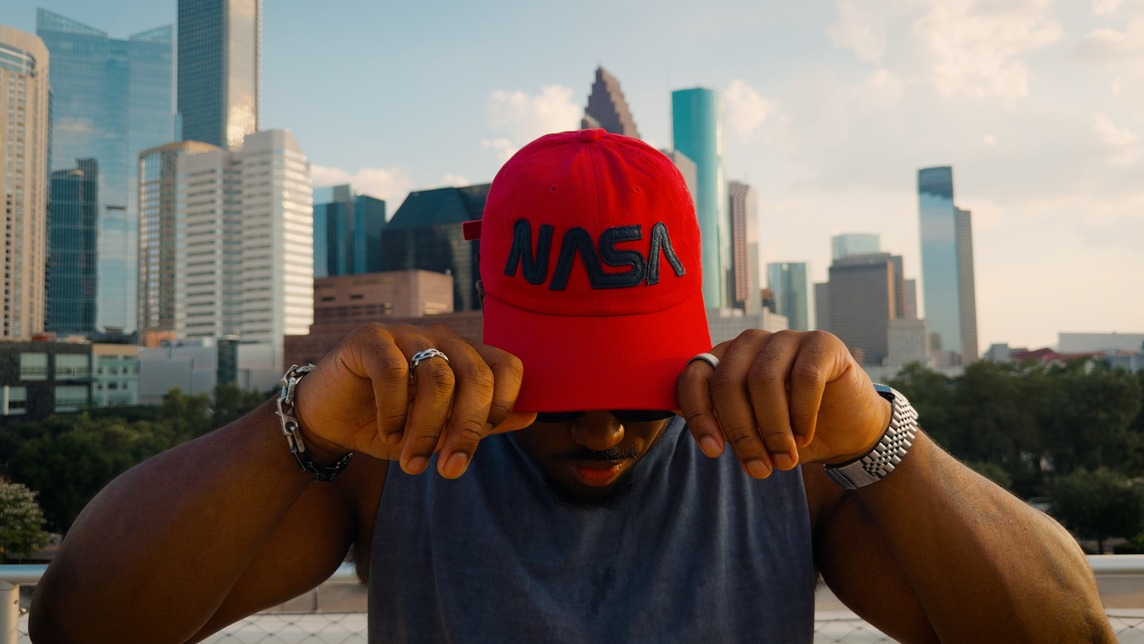
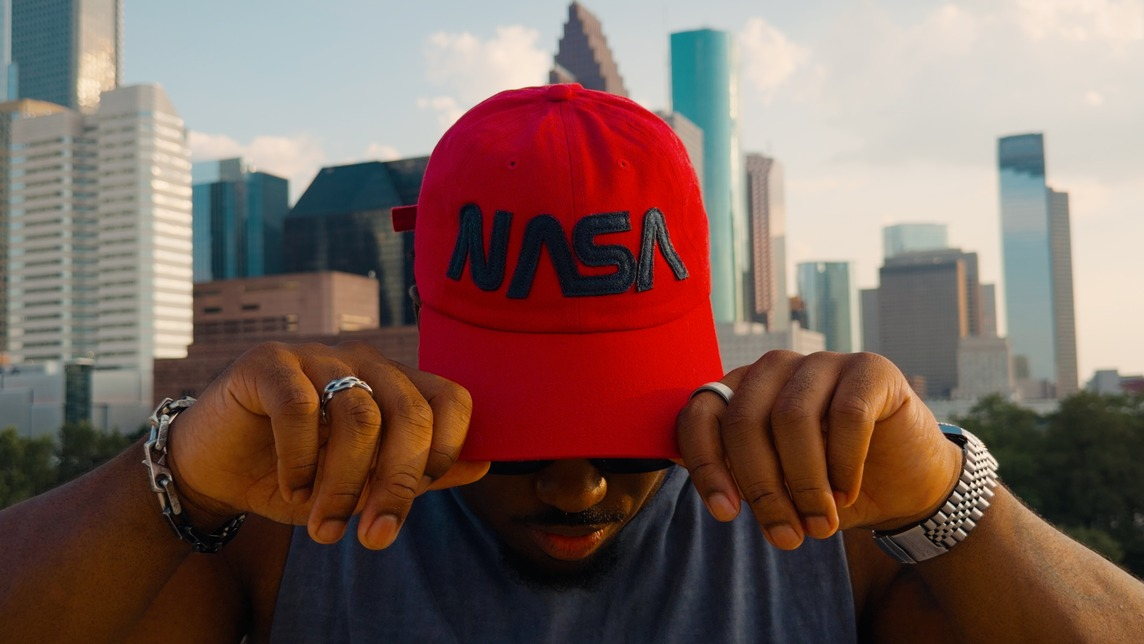
Punch M06.3 in to read as a close
The full 4K frame sat too wide next to M06.2 to earn the Close label — same
subject, barely tighter. Now cropped 1.33x on the cap and hands, keeping the
mouth and both hands whole.

Tried 1.5x as well and rejected it: at that crop the watch and bracelet clip
against the side edges and the chin falls off the bottom, which loses the face
a close-up exists to show.

Still 1144x644 from a 2880px crop, so print resolution is unaffected.

Claude-Session: https://claude.ai/code/session_01RzAGc63rHXK4eqJtipB8kQ

diff --git a/MEDIA-CHECKLIST.md b/MEDIA-CHECKLIST.md
@@ -106,7 +106,7 @@ has to be cropped rather than squeezed, or the export refuses the build.
 |---|---|---|---|
 | M06.1 | Video frame | 286 × 161 | **Supplied** — `fg-m06-1.jpg` from `wide.jpg`. Wide: subject small on the rooftop, skyline behind, planting in the foreground. |
 | M06.2 | Video frame | 286 × 161 | **Supplied** — `fg-m06-2.jpg` from `medium.jpg`. Medium: subject from the waist, skyline behind. |
-| M06.3 | Video frame | 286 × 161 | **Supplied** — `fg-m06-3.jpg` from `close.jpg`. Close: hands to the cap brim, face part-hidden. |
+| M06.3 | Video frame | 286 × 161 | **Supplied** — `fg-m06-3.jpg` from `close.jpg`, punched in **1.33×** (2880 × 1621 of the 4K frame). The full frame read too wide for a close beside M06.2. Tighter was tried at 1.5× and rejected: it clipped the watch and bracelet at the edges and cut the chin off the bottom, losing the face. |
 | M06.4 | Video frame | 286 × 161 | **Supplied** — `fg-m06-4.jpg` from `close1.jpg`. Detail: watch on the wrist. Matches the sheet's own caption — *hands, texture, a product* — word for word. |
 | M06.5 | Video frame | 286 × 161 | **Still open.** Movement — a push, a pan, parallax, or following the subject. The hard one: movement is temporal, so the still has to imply it. A frame mid-push with motion blur, or one where the parallax between foreground planting and skyline is obvious, will read. |
 | M06.6 | Video frame | 286 × 161 | **Supplied** — `fg-m06-6.jpg` from `detail.jpg`. Reveal: shot through foreground grass to the towers. Matches the sheet's caption — *hide part of the frame, then reveal what matters*. |
